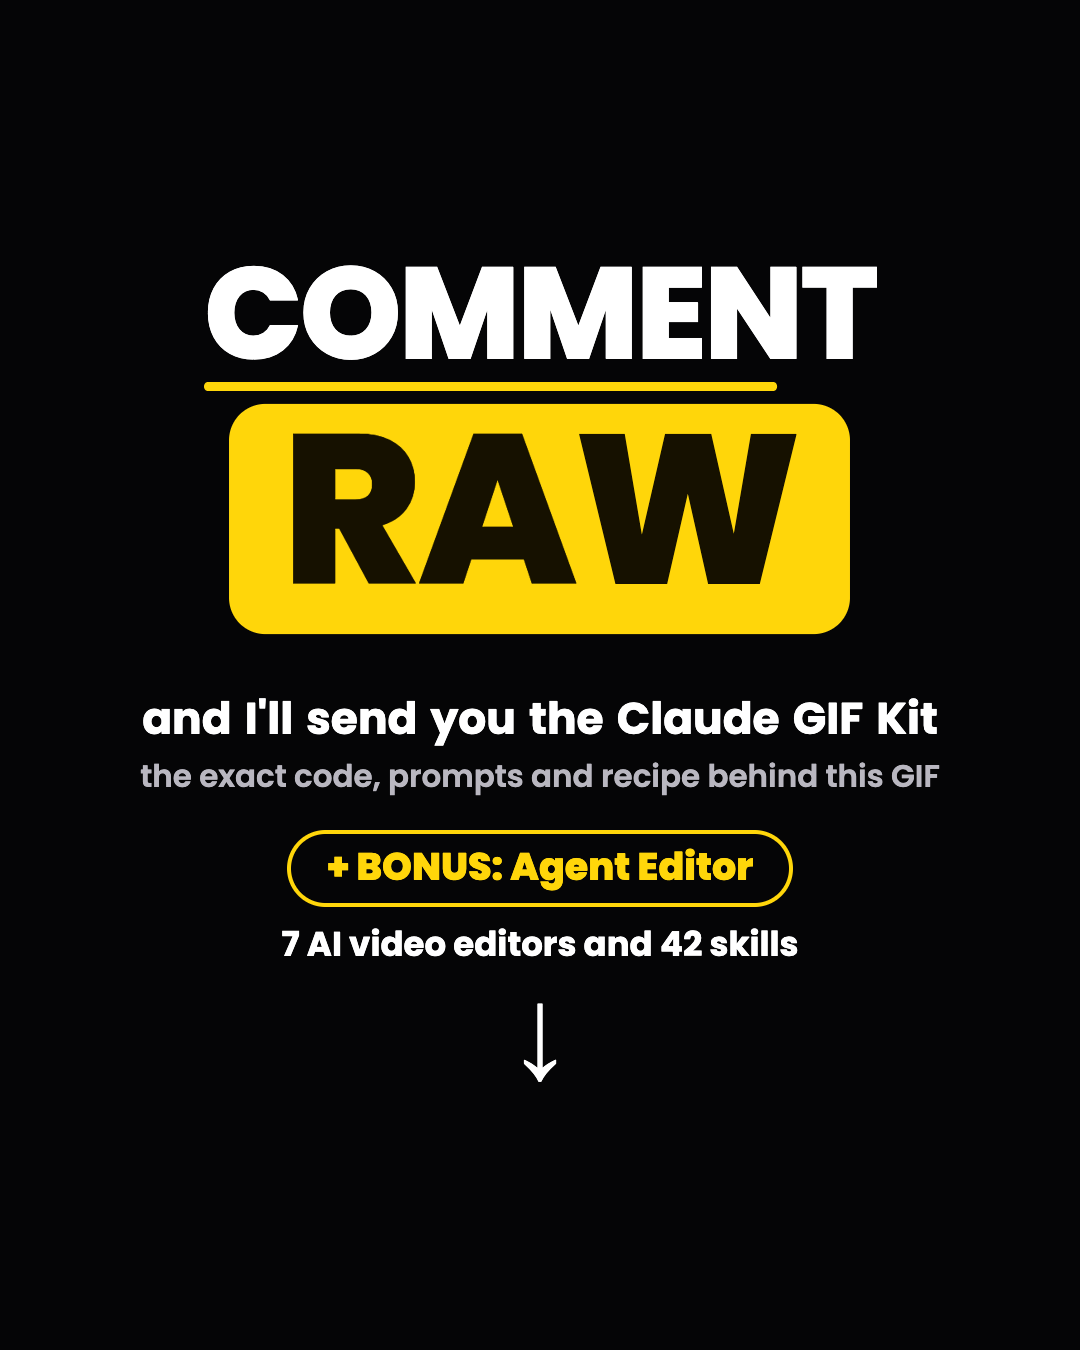
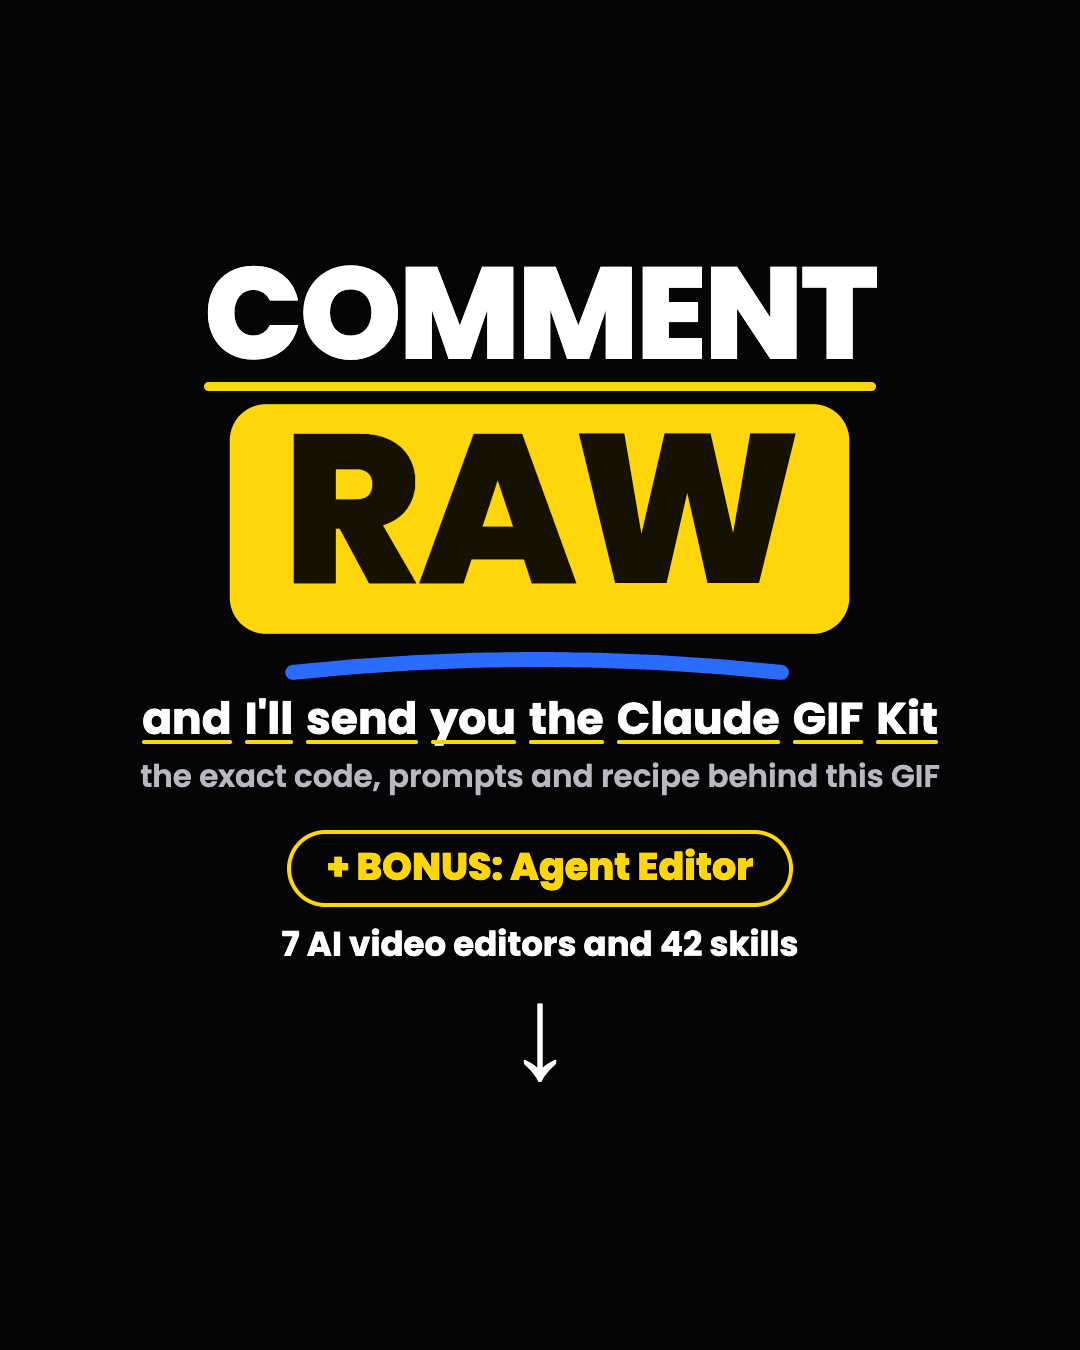
docs: Claude GIF Kit v1.0.1, single underline pass and bolder keyword arc
Underline plays once and ends as the screen changes; keyword arc is bold blue; previews and docs updated.

Changed region(s): [[0.2444, 0.4667, 0.7333, 0.5289], [0.7028, 0.28, 0.825, 0.3111]]

diff --git a/src/Pipeline.tsx b/src/Pipeline.tsx
@@ -10,7 +10,7 @@ import { loadFont as loadSans } from "@remotion/google-fonts/Poppins";
 
 export const PL_FPS = 60;
 export const PL_FRAMES = 1110;
-export const PL_MAIN_FRAME = 690;
+export const PL_MAIN_FRAME = 746;
 const W = 1080;
 const H = 1350;
 
@@ -60,7 +60,6 @@ const EDIT_X = 88;
 const OUT_Y = 1004;
 const OUT_W = 80;
 const OUT_H = 142;
-// Finished clips shown under the timeline (clip names from public/clips)
 const OUT_CLIPS = ["a2", "b2", "c3", "a3"];
 const PLATFORMS: Array<{ name: string; file?: string; full?: boolean; label?: string }> = [
   { name: "Instagram", file: "instagram.svg" },
@@ -167,46 +166,37 @@ const ToolTile: React.FC<{ tool: Tool; x: number; p: number }> = ({ tool, x, p }
   );
 };
 
-/* ---------- underline loop: words get underlined one by one, left to right, then wipe out and start again ---------- */
-const UL_CYCLE = 300;
+/* ---------- underline, one pass: every word is underlined once, left to right, at a slow pace ---------- */
+const UL_RAW_COLOR = "#2B6BFF";
 const ulEase = Easing.bezier(0.45, 0, 0.55, 1);
-const pm = (x: number) => ((x % UL_CYCLE) + UL_CYCLE) % UL_CYCLE;
-const STRIP_UL: Array<[number, number]> = [[0, 36], [40, 44], [92, 22], [118, 24], [144, 42], [190, 30], [224, 26]];
-const END_UL: Array<[number, number]> = [[0, 40], [44, 56], [110, 22], [134, 20], [156, 20], [178, 24], [206, 36], [244, 22], [268, 20]];
-const ulState = (local: number, st: [number, number]) => {
-  const p = interpolate(local, [st[0], st[0] + st[1]], [0, 1], { ...clamp, easing: ulEase });
-  const r = interpolate(local, [282, 300], [0, 1], { ...clamp, easing: ulEase });
-  return { p, r };
-};
-const Underline: React.FC<{ local: number; st: [number, number]; height: number; color: string; bottom: number; radius?: number }> = ({ local, st, height, color, bottom, radius = 3 }) => {
-  const { p, r } = ulState(local, st);
-  return (
-    <span
-      style={{
-        position: "absolute",
-        left: 0,
-        right: 0,
-        bottom,
-        height,
-        borderRadius: radius,
-        background: color,
-        transformOrigin: r > 0 ? "100% 50%" : "0% 50%",
-        transform: `scaleX(${r > 0 ? 1 - r : p})`,
-      }}
-    />
-  );
-};
-const CurvedUnderline: React.FC<{ local: number; st: [number, number]; color: string; stroke: number; w: number; h: number; style: React.CSSProperties }> = ({ local, st, color, stroke, w, h, style }) => {
-  const { p, r } = ulState(local, st);
-  const off = r > 0 ? -r : 1 - p;
-  return (
-    <svg width={w} height={h} viewBox={`0 0 ${w} ${h}`} style={{ position: "absolute", overflow: "visible", ...style }}>
-      <path d={`M${0.03 * w},${0.12 * h} Q ${0.5 * w},${1.35 * h} ${0.97 * w},${0.12 * h}`} fill="none" stroke={color} strokeWidth={stroke} strokeLinecap="round" pathLength={1} strokeDasharray="1 1" strokeDashoffset={off} />
-    </svg>
-  );
-};
+// [start frame, duration]. The strip finishes on the last letter of KIT at frame 740, then the screen changes.
+const STRIP_UL: Array<[number, number]> = [[10, 120], [140, 110], [260, 80], [350, 80], [440, 120], [570, 80], [660, 80]];
+// Relative to the start of the end screen: COMMENT, RAW, then the eight words of the sentence.
+const END_UL: Array<[number, number]> = [[30, 50], [86, 70], [164, 16], [183, 16], [202, 16], [221, 16], [240, 16], [259, 16], [278, 16], [297, 16]];
+const ulP = (local: number, st: [number, number]) => interpolate(local, [st[0], st[0] + st[1]], [0, 1], { ...clamp, easing: ulEase });
+const Underline: React.FC<{ local: number; st: [number, number]; height: number; color: string; bottom: number; radius?: number }> = ({ local, st, height, color, bottom, radius = 3 }) => (
+  <span
+    style={{
+      position: "absolute",
+      left: 0,
+      right: 0,
+      bottom,
+      height,
+      borderRadius: radius,
+      background: color,
+      transformOrigin: "0% 50%",
+      transform: `scaleX(${ulP(local, st)})`,
+    }}
+  />
+);
+// An arc that bows upward, drawn left to right.
+const CurvedUnderline: React.FC<{ local: number; st: [number, number]; color: string; stroke: number; w: number; h: number; style: React.CSSProperties }> = ({ local, st, color, stroke, w, h, style }) => (
+  <svg width={w} height={h} viewBox={`0 0 ${w} ${h}`} style={{ position: "absolute", overflow: "visible", ...style }}>
+    <path d={`M${0.03 * w},${0.9 * h} Q ${0.5 * w},${-0.1 * h} ${0.97 * w},${0.9 * h}`} fill="none" stroke={color} strokeWidth={stroke} strokeLinecap="round" pathLength={1} strokeDasharray="1 1" strokeDashoffset={1 - ulP(local, st)} />
+  </svg>
+);
 
-export const PlScene: React.FC<{ f: number }> = ({ f }) => {
+export const PlScene: React.FC<{ f: number; slotF?: number }> = ({ f, slotF }) => {
   /* headline: fully visible on frame 0, small punch */
   const punch = 1 + 0.045 * (1 - t01(f, 0, 16, Easing.out(Easing.cubic)));
 
@@ -219,7 +209,7 @@ export const PlScene: React.FC<{ f: number }> = ({ f }) => {
   const SLOT_PERIOD = 96;
   const SLOT_MOVE = 30;
   const SLOT_TRAVEL = 112;
-  const slotT = Math.max(0, f - S(1.4));
+  const slotT = Math.max(0, (slotF ?? f) - S(1.4));
   const slotStep = Math.floor(slotT / SLOT_PERIOD);
   const slotPhase = slotT - slotStep * SLOT_PERIOD;
   const slotD = slotPhase <= SLOT_PERIOD - SLOT_MOVE ? 0 : inOut((slotPhase - (SLOT_PERIOD - SLOT_MOVE)) / SLOT_MOVE);
@@ -256,7 +246,7 @@ export const PlScene: React.FC<{ f: number }> = ({ f }) => {
   const outLabelP = (i: number) => t01(f, S(8.8) + i * 14 + 44, S(8.8) + i * 14 + 66);
 
   /* comment ask: a strip on the main screen, a full end screen after it */
-  const EXIT_A = S(12.4);
+  const EXIT_A = 748;
   const exitP = t01(f, EXIT_A, EXIT_A + 32, inOut);
   const cardIn = (a: number, b: number) => t01(f, EXIT_A + a, EXIT_A + b);
   const stripP = t01(f, 0, 14, Easing.out(Easing.cubic));
@@ -267,14 +257,14 @@ export const PlScene: React.FC<{ f: number }> = ({ f }) => {
   const c3 = cardIn(50, 80);
   const c4 = cardIn(62, 90);
   const rawPulse = 1 + 0.012 * Math.sin(Math.max(0, f - EXIT_A) / 14);
-  const stripLocal = pm(f - 125);
-  const endLocal = pm(f - (EXIT_A + 36));
+  const stripLocal = f;
+  const endLocal = f - EXIT_A;
 
   const trackBox = (top: number, h: number) => ({ position: "absolute" as const, left: EDIT_X, top, width: EDIT_W, height: h, borderRadius: 8, background: K.panel, boxShadow: "0 0 0 1.5px #25252C", opacity: edLabelP });
 
   return (
     <AbsoluteFill style={{ background: K.bg, color: K.ink, fontFamily: sans, fontWeight: 600 }}>
-      <div style={{ position: "absolute", left: 0, top: 0, width: W, height: H, transformOrigin: "50% 0", transform: `translateY(${72 - exitP * 110}px) scale(0.935)`, opacity: 1 - exitP, filter: `blur(${exitP * 10}px)` }}>
+      <div style={{ position: "absolute", left: 0, top: 0, width: W, height: H, transformOrigin: "50% 0", transform: `translateY(${75 - exitP * 110}px) scale(0.935)`, opacity: 1 - exitP, filter: `blur(${exitP * 10}px)` }}>
       {/* headline */}
       <div style={{ position: "absolute", left: 0, right: 0, top: 40, textAlign: "center", transform: `scale(${punch})`, transformOrigin: "50% 40%" }}>
         <div style={{ fontWeight: 800, fontSize: 80, lineHeight: 1, letterSpacing: -1.8, color: K.ink }}>FOOTAGE IN.</div>
@@ -473,7 +463,7 @@ export const PlScene: React.FC<{ f: number }> = ({ f }) => {
           w === "RAW" ? (
             <span key={w} style={{ position: "relative", display: "inline-block", background: K.yellow, padding: "0 16px 13px", borderRadius: 14, lineHeight: "38px" }}>
               RAW
-              <CurvedUnderline local={stripLocal} st={STRIP_UL[i]} color="#0A0A0A" stroke={3.5} w={76} h={9} style={{ left: 15, bottom: 5 }} />
+              <CurvedUnderline local={stripLocal} st={STRIP_UL[i]} color={UL_RAW_COLOR} stroke={6} w={76} h={12} style={{ left: 15, bottom: 3 }} />
             </span>
           ) : (
             <span key={`${w}${i}`} style={{ position: "relative", display: "inline-block", lineHeight: "42px" }}>
@@ -509,13 +499,13 @@ export const PlScene: React.FC<{ f: number }> = ({ f }) => {
           >
             RAW
           </div>
-          <CurvedUnderline local={endLocal} st={END_UL[1]} color="#FFFFFF" stroke={9} w={520} h={26} style={{ left: 45, bottom: -36, opacity: c1 }} />
+          <CurvedUnderline local={endLocal} st={END_UL[1]} color={UL_RAW_COLOR} stroke={15} w={520} h={26} style={{ left: 45, bottom: -42, opacity: c1 }} />
         </div>
         <div style={{ marginTop: 60, fontWeight: 700, fontSize: 44, opacity: c2, filter: blurIn(c2, 8), transform: `translateY(${(1 - c2) * 20}px)`, display: "flex", gap: 13 }}>
           {END_WORDS.map((w, i) => (
             <span key={`${w}${i}`} style={{ position: "relative", display: "inline-block", lineHeight: "52px" }}>
               {w}
-              <Underline local={endLocal} st={END_UL[i + 2 > 8 ? 8 : i + 2]} height={4} color={K.yellow} bottom={1} />
+              <Underline local={endLocal} st={END_UL[i + 2]} height={4} color={K.yellow} bottom={1} />
             </span>
           ))}
         </div>
@@ -533,4 +523,4 @@ export const Pipeline: React.FC = () => {
   return <PlScene f={f} />;
 };
 export const PipelineEnd: React.FC = () => <PlScene f={PL_FRAMES - 1} />;
-export const PipelineMain: React.FC = () => <PlScene f={PL_MAIN_FRAME} />;
+export const PipelineMain: React.FC = () => <PlScene f={PL_MAIN_FRAME} slotF={700} />;

diff --git a/docs/07-THE-COMMENT-ASK.md b/docs/07-THE-COMMENT-ASK.md
@@ -5,7 +5,7 @@ Goal: people comment one short word and you send them the resource.
 ## What the GIF does
 
 1. **A strip at the very top, from the first frame:** `COMMENT [RAW] FOR THE <NAME OF THE RESOURCE> ↓`. White bar, black text, the keyword on a yellow chip, a bobbing arrow towards the comment box (on LinkedIn the comment box sits below the media).
-2. **An underline loop:** each word is underlined from left to right, one after another, the keyword with a curved underline. The ask is always being drawn.
+2. **An underline pass:** each word is underlined once, from left to right, one after another, at a slow pace; the last underline finishes right as the screen changes. The keyword gets a bold curved arc in a contrasting colour. The ask is being drawn from the first frame to the screen change.
 3. **An end screen** (the main content slides up and blurs out): COMMENT, the keyword on a big bar, a sentence that names the resource, a bonus line, an arrow.
 
 ## Rules

diff --git a/docs/05-DESIGN-RULES.md b/docs/05-DESIGN-RULES.md
@@ -15,7 +15,7 @@ Mechanisms only. Copy the ideas, never another creator's words, footage or marks
 - A huge two line headline visible from frame 0: white line, then a solid accent bar with dark text. 80 px or more.
 - Text that matters is never below 26 px on the 1080 canvas. Labels 26 to 32 px, headline 80 px, end screen 130 to 210 px.
 - A strip at the very top with the ask, there from the first frame, so the static preview already carries it.
-- Words get underlined one by one, left to right, in a loop (`UL_CYCLE` frames, wipe out, start again). The keyword gets a curved underline. This keeps the eye moving along the ask.
+- Words get underlined one by one, left to right, once, at a slow pace (`STRIP_UL` frames), and the last underline finishes right as the screen changes. The keyword gets a bold curved arc in a contrasting colour (blue on yellow, `UL_RAW_COLOR`). This keeps the eye moving along the ask without repeating.
 
 ## Layout
 

diff --git a/docs/02-THE-PROMPTS.md b/docs/02-THE-PROMPTS.md
@@ -45,7 +45,8 @@ scripts/check_gif_timing.py.
 ```text
 Add a comment ask inside the picture: a white strip at the very top, there from the first frame, reading
 COMMENT [RAW] FOR THE [NAME OF THE RESOURCE] with a bobbing down arrow. The words get underlined one by one from left to
-right, in a loop; the keyword gets a curved underline. After [12.4 s] the main content slides up and blurs out and an
+right, once, slowly, finishing on the last word exactly when the screen changes; the keyword gets a bold curved
+underline in a contrasting colour. After [12.4 s] the main content slides up and blurs out and an
 end screen builds in: COMMENT, the keyword on a big yellow bar, what they get, a bonus line, a down arrow. Keep the same
-underline loop on the end screen. Do not put the keyword in the post text.
+single underline pass on the end screen. Do not put the keyword in the post text.
 ```

diff --git a/docs/01-HOW-THIS-GIF-WAS-MADE.md b/docs/01-HOW-THIS-GIF-WAS-MADE.md
@@ -20,7 +20,7 @@ can repeat it for your own idea.
 6. **Review with pictures, not with hope.** Render stills at the key frames, look at them at full size, then give notes
    with exact words ("make the container narrower than the logo tile", not "make it better"). Keep the notes short, one
    topic each. About eight rounds changed: layout, sizes, one logo slot that swaps, a three track timeline, platform
-   logos, a comment strip, an end screen, an underline loop.
+   logos, a comment strip, an end screen, a single slow underline pass.
 7. **Export the video first, the GIF second.** A video at 60 fps is the smooth one. The GIF recipe is in
    `docs/04-GIF-RECIPE.md` and it matters: frame timing in a GIF is whole hundredths of a second.
 8. **Ask for the comment inside the picture,** not in the post text. (`docs/07-THE-COMMENT-ASK.md`.)

diff --git a/README.md b/README.md
@@ -4,7 +4,7 @@ The exact setup behind the animated explainer GIF from the post "Rate your last 
 
 - a **Remotion project** (`src/Pipeline.tsx`): footage tiles feed a square container where four agent logos take turns,
   one row of tool logos, a three track timeline, finished clips that fly out to four platforms, a comment strip with an
-  underline loop, and an end screen. 1080 by 1350, 60 fps, every frame a pure function of the frame number;
+  underline pass, and an end screen. 1080 by 1350, 60 fps, every frame a pure function of the frame number;
 - the **prompts** that built it, the **footage prompts**, the **design rules**, and the **GIF recipe** that fixes
   choppy GIFs (50 fps with every frame exactly 20 ms);
 - a **Claude Code skill** that turns a sketch into this kind of animation;

diff --git a/CHANGELOG.md b/CHANGELOG.md
@@ -1,4 +1,7 @@
 # Changelog
 
+## 1.0.1
+The underline now plays once at a slow pace and ends right as the screen changes. The keyword underline is a bold upward arc in blue. A little more space under the top strip.
+
 ## 1.0.0
 First release: the Remotion composition, seven docs, the GIF and kit checkers with tests, and the Claude Code skill.
